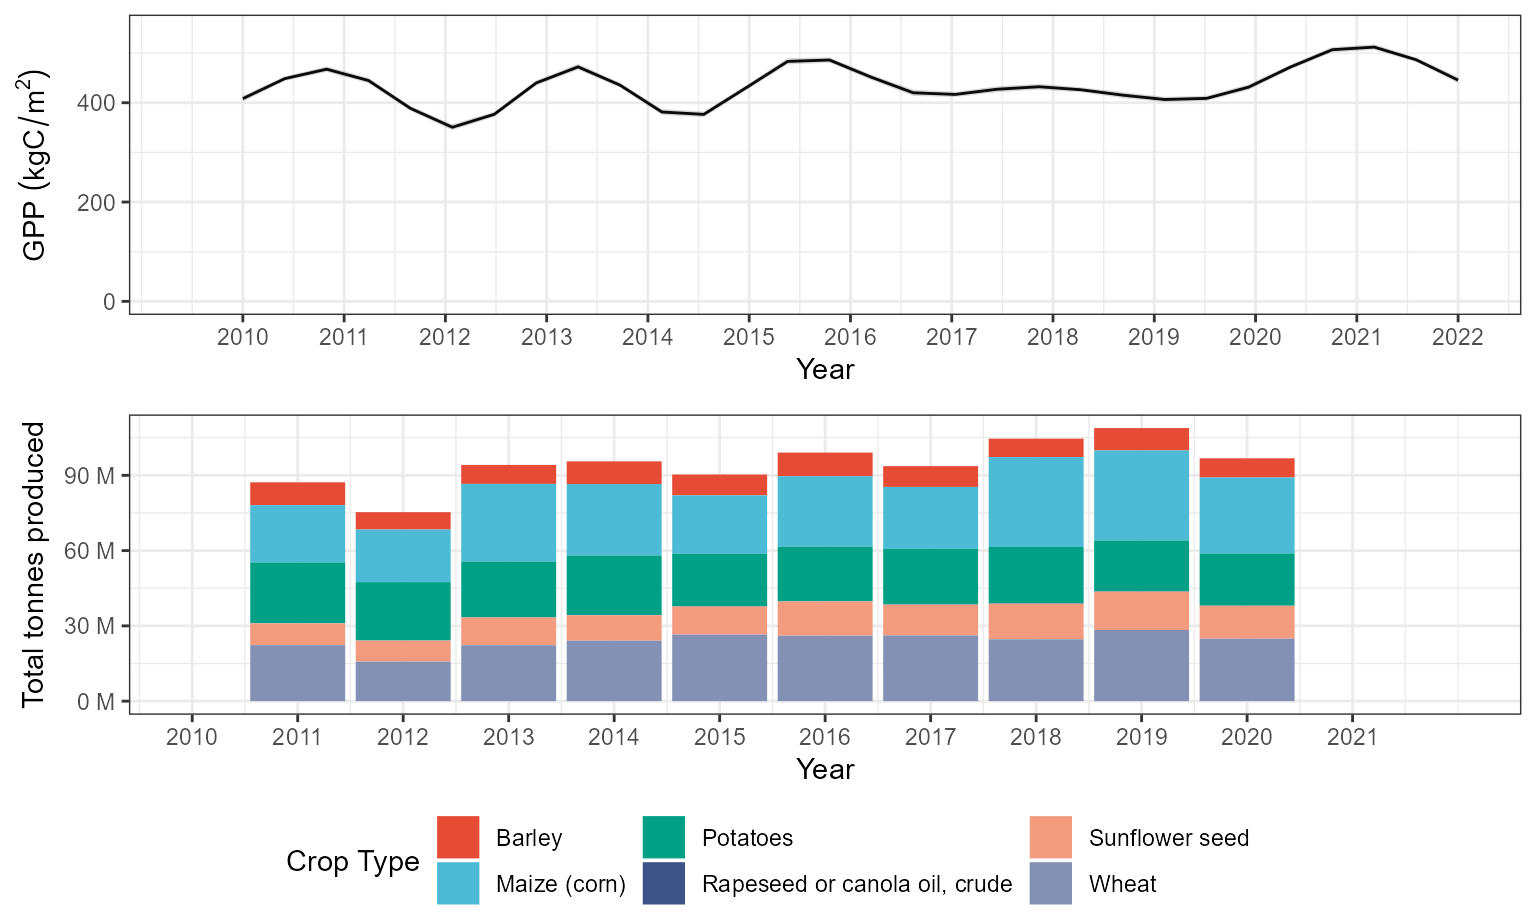
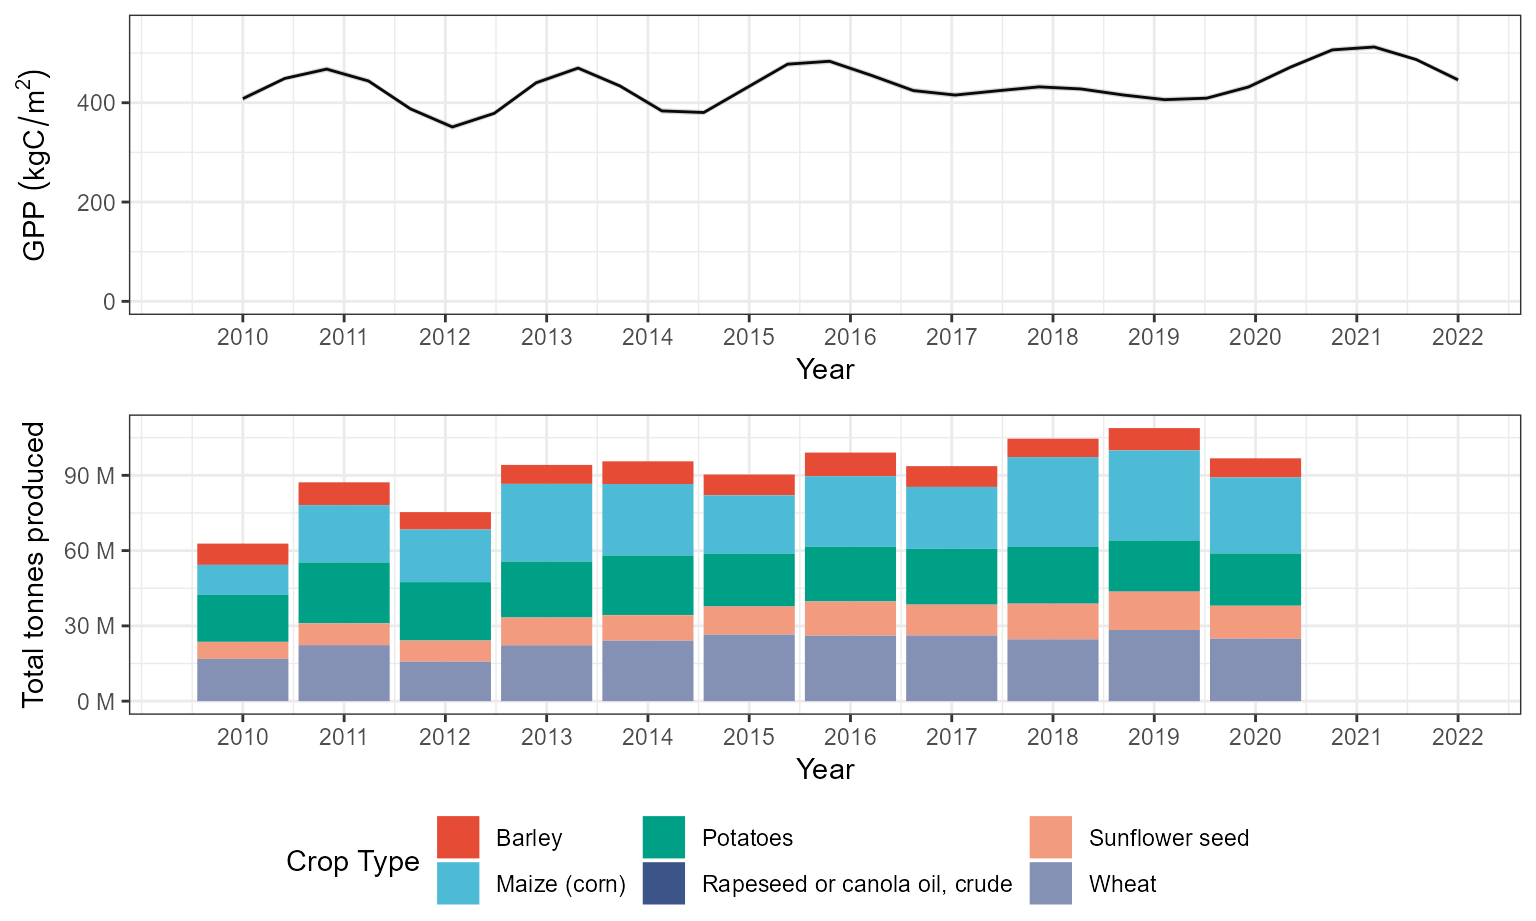
Jan 2023 updates

diff --git a/articles/Ukraine-GPP-analysis.html b/articles/Ukraine-GPP-analysis.html
@@ -66,7 +66,7 @@
                         <h4 data-toc-skip class="author">Michael
 Wellington, Roger Lawes and Petra Kuhnert</h4>
             
-            <h4 data-toc-skip class="date">4 August 2022</h4>
+            <h4 data-toc-skip class="date">25 January 2023</h4>
       
       
       <div class="d-none name"><code>Ukraine-GPP-analysis.Rmd</code></div>
@@ -79,8 +79,8 @@ Wellington, Roger Lawes and Petra Kuhnert</h4>
 </h3>
 <p>The following script accompanies the paper by Wellington et
 al. (2022) that explores crop production and grain exports in Ukraine.
-This first vignette focuses on trends in crop production using Net
-Primary Productivity (NPP).</p>
+This first vignette focuses on trends in crop production using Gross
+Primary Productivity (GPP).</p>
 </div>
 <div class="section level3">
 <h3 id="trend-analysis">Trend Analysis<a class="anchor" aria-label="anchor" href="#trend-analysis"></a>
@@ -89,7 +89,7 @@ Primary Productivity (NPP).</p>
 <div class="section level2">
 <h2 id="reading-in-relevant-datasets">Reading in relevant datasets<a class="anchor" aria-label="anchor" href="#reading-in-relevant-datasets"></a>
 </h2>
-<p>We load in NPP data clipped to Ukraine and load in the relevant shape
+<p>We load in GPP data clipped to Ukraine and load in the relevant shape
 file. These datasets are also available in the <code>/data</code> and
 <code>/inst/extdata</code> directories and can be read in using the
 <code>readRDS</code> and <code>st_read</code> commands respectively.</p>
@@ -119,7 +119,7 @@ of season within year, and space and time.</p>
 <span>  <span class="fu"><a href="https://rdrr.io/pkg/mgcv/man/te.html" class="external-link">ti</a></span><span class="op">(</span><span class="va">month</span>, <span class="va">year</span>, bs <span class="op">=</span> <span class="fu"><a href="https://rdrr.io/r/base/c.html" class="external-link">c</a></span><span class="op">(</span><span class="st">"cc"</span>, <span class="st">"cr"</span><span class="op">)</span>, k <span class="op">=</span> <span class="fu"><a href="https://rdrr.io/r/base/c.html" class="external-link">c</a></span><span class="op">(</span><span class="fl">12</span>,<span class="fl">12</span><span class="op">)</span><span class="op">)</span> <span class="op">+</span>  </span>
 <span>  <span class="co"># space x time</span></span>
 <span>  <span class="fu"><a href="https://rdrr.io/pkg/mgcv/man/te.html" class="external-link">ti</a></span><span class="op">(</span><span class="va">x</span>, <span class="va">y</span>, <span class="va">year</span>, d <span class="op">=</span> <span class="fu"><a href="https://rdrr.io/r/base/c.html" class="external-link">c</a></span><span class="op">(</span><span class="fl">2</span>, <span class="fl">1</span><span class="op">)</span>, bs <span class="op">=</span> <span class="fu"><a href="https://rdrr.io/r/base/c.html" class="external-link">c</a></span><span class="op">(</span><span class="st">"gp"</span>, <span class="st">"cr"</span><span class="op">)</span>, </span>
-<span>     k <span class="op">=</span> <span class="fu"><a href="https://rdrr.io/r/base/c.html" class="external-link">c</a></span><span class="op">(</span><span class="fl">50</span>,<span class="fl">12</span><span class="op">)</span>, m<span class="op">=</span><span class="fu"><a href="https://rdrr.io/r/base/list.html" class="external-link">list</a></span><span class="op">(</span><span class="fl">2</span>, <span class="cn">NA</span><span class="op">)</span><span class="op">)</span>  </span></code></pre></div>
+<span>     k <span class="op">=</span> <span class="fu"><a href="https://rdrr.io/r/base/c.html" class="external-link">c</a></span><span class="op">(</span><span class="fl">50</span>,<span class="fl">13</span><span class="op">)</span>, m<span class="op">=</span><span class="fu"><a href="https://rdrr.io/r/base/list.html" class="external-link">list</a></span><span class="op">(</span><span class="fl">2</span>, <span class="cn">NA</span><span class="op">)</span><span class="op">)</span>  </span></code></pre></div>
 <p>We then add in the factor <code>inv</code> which allows us to
 investigate a pre and post invasion effect.</p>
 <p>We also explore a GAM structure that fits a term reflecting the pre
@@ -160,24 +160,24 @@ effect direction and size.</p>
 <span><span class="co">## </span></span>
 <span><span class="co">## Parametric coefficients:</span></span>
 <span><span class="co">##                   Estimate Std. Error  t value Pr(&gt;|t|)    </span></span>
-<span><span class="co">## (Intercept)      191.09962    0.09495 2012.712   &lt;2e-16 ***</span></span>
-<span><span class="co">## warPost-invasion  -1.65267    6.43545   -0.257    0.797    </span></span>
+<span><span class="co">## (Intercept)      191.09964    0.09465 2018.918  &lt; 2e-16 ***</span></span>
+<span><span class="co">## warPost-invasion  -2.47161    0.41756   -5.919 3.24e-09 ***</span></span>
 <span><span class="co">## ---</span></span>
 <span><span class="co">## Signif. codes:  0 '***' 0.001 '**' 0.01 '*' 0.05 '.' 0.1 ' ' 1</span></span>
 <span><span class="co">## </span></span>
 <span><span class="co">## Approximate significance of smooth terms:</span></span>
 <span><span class="co">##                                    edf Ref.df         F p-value    </span></span>
-<span><span class="co">## s(month):warPre-invasion         9.998  10.00 386158.12  &lt;2e-16 ***</span></span>
-<span><span class="co">## s(month):warPost-invasion        8.992   9.00  29330.70  &lt;2e-16 ***</span></span>
-<span><span class="co">## s(x,y):warPre-invasion          48.528  48.92   3357.00  &lt;2e-16 ***</span></span>
-<span><span class="co">## s(x,y):warPost-invasion         44.154  45.40     16.74  &lt;2e-16 ***</span></span>
-<span><span class="co">## ti(month,x,y):warPre-invasion  490.490 519.83    627.08  &lt;2e-16 ***</span></span>
-<span><span class="co">## ti(month,x,y):warPost-invasion 340.912 388.60     89.06  &lt;2e-16 ***</span></span>
+<span><span class="co">## s(month):warPre-invasion         9.998  10.00 388543.14  &lt;2e-16 ***</span></span>
+<span><span class="co">## s(month):warPost-invasion        9.987  10.00  30197.84  &lt;2e-16 ***</span></span>
+<span><span class="co">## s(x,y):warPre-invasion          48.530  48.92   3377.65  &lt;2e-16 ***</span></span>
+<span><span class="co">## s(x,y):warPost-invasion         44.607  45.92     22.75  &lt;2e-16 ***</span></span>
+<span><span class="co">## ti(month,x,y):warPre-invasion  490.729 519.96    630.80  &lt;2e-16 ***</span></span>
+<span><span class="co">## ti(month,x,y):warPost-invasion 366.474 419.60     86.94  &lt;2e-16 ***</span></span>
 <span><span class="co">## ---</span></span>
 <span><span class="co">## Signif. codes:  0 '***' 0.001 '**' 0.01 '*' 0.05 '.' 0.1 ' ' 1</span></span>
 <span><span class="co">## </span></span>
-<span><span class="co">## R-sq.(adj) =  0.861   Deviance explained = 86.1%</span></span>
-<span><span class="co">## fREML = 6.5579e+06  Scale est. = 2493.2    n = 1283803</span></span></code></pre>
+<span><span class="co">## R-sq.(adj) =  0.862   Deviance explained = 86.2%</span></span>
+<span><span class="co">## fREML = 6.5967e+06  Scale est. = 2477.9    n = 1292171</span></span></code></pre>
 </div>
 <div class="section level2">
 <h2 id="model-checking">Model Checking<a class="anchor" aria-label="anchor" href="#model-checking"></a>
@@ -229,7 +229,7 @@ data were taken from the <a href="https://www.fao.org/faostat/en/" class="extern
 <span>                                     position<span class="op">=</span><span class="st">"stack"</span>, stat<span class="op">=</span><span class="st">"identity"</span><span class="op">)</span> <span class="op">+</span> <span class="fu"><a href="https://nanx.me/ggsci/reference/scale_npg.html" class="external-link">scale_fill_npg</a></span><span class="op">(</span><span class="op">)</span> <span class="op">+</span></span>
 <span>  <span class="fu"><a href="https://ggplot2.tidyverse.org/reference/ggtheme.html" class="external-link">theme_bw</a></span><span class="op">(</span><span class="op">)</span> <span class="op">+</span> <span class="fu"><a href="https://ggplot2.tidyverse.org/reference/labs.html" class="external-link">labs</a></span><span class="op">(</span>fill<span class="op">=</span><span class="st">'Crop Type'</span>, y<span class="op">=</span> <span class="st">'Total tonnes produced'</span><span class="op">)</span> <span class="op">+</span> </span>
 <span>  <span class="fu"><a href="https://ggplot2.tidyverse.org/reference/scale_continuous.html" class="external-link">scale_y_continuous</a></span><span class="op">(</span>labels <span class="op">=</span> <span class="fu"><a href="https://scales.r-lib.org/reference/unit_format.html" class="external-link">unit_format</a></span><span class="op">(</span>unit <span class="op">=</span> <span class="st">"M"</span>, scale <span class="op">=</span> <span class="fl">1e-6</span><span class="op">)</span><span class="op">)</span> <span class="op">+</span></span>
-<span>  <span class="fu"><a href="https://ggplot2.tidyverse.org/reference/scale_continuous.html" class="external-link">scale_x_continuous</a></span><span class="op">(</span>breaks<span class="op">=</span><span class="fu"><a href="https://rdrr.io/r/base/seq.html" class="external-link">seq</a></span><span class="op">(</span><span class="fl">2010</span>,<span class="fl">2021</span>, <span class="fl">1</span><span class="op">)</span>, limit<span class="op">=</span><span class="fu"><a href="https://rdrr.io/r/base/c.html" class="external-link">c</a></span><span class="op">(</span><span class="fl">2010</span>, <span class="fl">2022</span><span class="op">)</span><span class="op">)</span></span></code></pre></div>
+<span>  <span class="fu"><a href="https://ggplot2.tidyverse.org/reference/scale_continuous.html" class="external-link">scale_x_continuous</a></span><span class="op">(</span>breaks<span class="op">=</span><span class="fu"><a href="https://rdrr.io/r/base/seq.html" class="external-link">seq</a></span><span class="op">(</span><span class="fl">2010</span>,<span class="fl">2022</span>, <span class="fl">1</span><span class="op">)</span>, limit<span class="op">=</span><span class="fu"><a href="https://rdrr.io/r/base/c.html" class="external-link">c</a></span><span class="op">(</span><span class="fl">2009.5</span>, <span class="fl">2022</span><span class="op">)</span><span class="op">)</span></span></code></pre></div>
 <p>Before we format the final plot, we’ll perform a correlation test to
 check agreement between total crop production from FAOSTAT data and our
 NPP model. First of all, we extract the prediction terms for the year
@@ -238,13 +238,13 @@ effect from our GAM.</p>
 <code class="sourceCode R"><span><span class="va">Ukr_annual_preds_terms</span> <span class="op">&lt;-</span> <span class="fu"><a href="https://rdrr.io/r/stats/predict.html" class="external-link">predict</a></span><span class="op">(</span><span class="va">all_gam</span>, type<span class="op">=</span><span class="st">"iterms"</span>,  <span class="co">## Predict without new data</span></span>
 <span>                                 se.fit<span class="op">=</span><span class="cn">TRUE</span><span class="op">)</span> </span>
 <span><span class="fu"><a href="https://rdrr.io/r/utils/head.html" class="external-link">head</a></span><span class="op">(</span><span class="va">Ukr_annual_preds_terms</span><span class="op">$</span><span class="va">fit</span><span class="op">)</span></span></code></pre></div>
-<pre><code><span><span class="co">##     s(year)  s(month)     s(x,y) ti(month,year) ti(year,x,y)</span></span>
-<span><span class="co">## 1 -7.206782 -166.4977 -14.672125       16.72331   -27.269094</span></span>
-<span><span class="co">## 2 -7.206782 -166.4977 -13.961324       16.72331   -23.459930</span></span>
-<span><span class="co">## 3 -7.206782 -166.4977  -9.994319       16.72331    -6.882217</span></span>
-<span><span class="co">## 4 -7.206782 -166.4977 -10.362108       16.72331    -9.312854</span></span>
-<span><span class="co">## 5 -7.206782 -166.4977 -10.624894       16.72331   -11.004132</span></span>
-<span><span class="co">## 6 -7.206782 -166.4977 -14.556385       16.72331   -18.299855</span></span></code></pre>
+<pre><code><span><span class="co">##     s(year)  s(month)    s(x,y) ti(month,year) ti(year,x,y)</span></span>
+<span><span class="co">## 1 -7.233708 -166.1777 -14.68356       16.45004   -27.265129</span></span>
+<span><span class="co">## 2 -7.233708 -166.1777 -14.02574       16.45004   -23.444105</span></span>
+<span><span class="co">## 3 -7.233708 -166.1777 -10.00935       16.45004    -7.011057</span></span>
+<span><span class="co">## 4 -7.233708 -166.1777 -10.42145       16.45004    -9.392004</span></span>
+<span><span class="co">## 5 -7.233708 -166.1777 -10.69893       16.45004   -11.056382</span></span>
+<span><span class="co">## 6 -7.233708 -166.1777 -14.63295       16.45004   -18.297377</span></span></code></pre>
 <div class="sourceCode" id="cb14"><pre class="downlit sourceCode r">
 <code class="sourceCode R"><span><span class="va">Ukr_annual_preds_fit</span> <span class="op">&lt;-</span> <span class="fu"><a href="https://rdrr.io/r/base/as.data.frame.html" class="external-link">as.data.frame</a></span><span class="op">(</span><span class="va">Ukr_annual_preds_terms</span><span class="op">$</span><span class="va">fit</span><span class="op">)</span></span>
 <span><span class="va">Ukr_annual_preds_fit</span><span class="op">$</span><span class="va">year</span> <span class="op">&lt;-</span> <span class="va">GPP_mod_df</span><span class="op">$</span><span class="va">year</span></span>
@@ -287,20 +287,20 @@ conducting the test.</p>
 <span><span class="co">##  Shapiro-Wilk normality test</span></span>
 <span><span class="co">## </span></span>
 <span><span class="co">## data:  Ukr_annual_terms$year_term</span></span>
-<span><span class="co">## W = 0.93546, p-value = 0.4687</span></span></code></pre>
+<span><span class="co">## W = 0.93534, p-value = 0.4674</span></span></code></pre>
 <div class="sourceCode" id="cb24"><pre class="downlit sourceCode r">
 <code class="sourceCode R"><span><span class="fu"><a href="https://rdrr.io/r/stats/cor.test.html" class="external-link">cor.test</a></span><span class="op">(</span><span class="va">Ukr_grainprod_annual</span><span class="op">$</span><span class="va">tonnes</span>, <span class="va">Ukr_annual_terms</span><span class="op">$</span><span class="va">year_term</span>, method<span class="op">=</span><span class="st">"pearson"</span>, alternative<span class="op">=</span><span class="st">"greater"</span><span class="op">)</span></span></code></pre></div>
 <pre><code><span><span class="co">## </span></span>
 <span><span class="co">##  Pearson's product-moment correlation</span></span>
 <span><span class="co">## </span></span>
 <span><span class="co">## data:  Ukr_grainprod_annual$tonnes and Ukr_annual_terms$year_term</span></span>
-<span><span class="co">## t = 2.7268, df = 9, p-value = 0.01167</span></span>
+<span><span class="co">## t = 2.7352, df = 9, p-value = 0.01151</span></span>
 <span><span class="co">## alternative hypothesis: true correlation is greater than 0</span></span>
 <span><span class="co">## 95 percent confidence interval:</span></span>
-<span><span class="co">##  0.2297834 1.0000000</span></span>
+<span><span class="co">##  0.2317292 1.0000000</span></span>
 <span><span class="co">## sample estimates:</span></span>
 <span><span class="co">##       cor </span></span>
-<span><span class="co">## 0.6726155</span></span></code></pre>
+<span><span class="co">## 0.6737394</span></span></code></pre>
 <p>Finally, we can plot the summed effect of year alongside the real
 production data.</p>
 <div class="sourceCode" id="cb26"><pre class="downlit sourceCode r">
@@ -417,29 +417,29 @@ estimate (Lucchesi, 2021). First, we extract data from the GAMs.</p>
 <p>Next, we use Vizumap functions to build a palette and colour key.</p>
 <div class="sourceCode" id="cb36"><pre class="downlit sourceCode r">
 <code class="sourceCode R"><span><span class="co"># Create palette</span></span>
-<span><span class="va">npp_pal</span> <span class="op">&lt;-</span> <span class="fu">build_palette</span><span class="op">(</span>name <span class="op">=</span> <span class="st">"usr"</span>, </span>
+<span><span class="va">gpp_pal</span> <span class="op">&lt;-</span> <span class="fu">build_palette</span><span class="op">(</span>name <span class="op">=</span> <span class="st">"usr"</span>, </span>
 <span>                          colrange <span class="op">=</span> <span class="fu"><a href="https://rdrr.io/r/base/list.html" class="external-link">list</a></span><span class="op">(</span>colour <span class="op">=</span> <span class="fu"><a href="https://rdrr.io/r/base/c.html" class="external-link">c</a></span><span class="op">(</span><span class="st">"chartreuse4"</span>, <span class="st">"darkblue"</span><span class="op">)</span>, </span>
 <span>                                          difC <span class="op">=</span> <span class="fu"><a href="https://rdrr.io/r/base/c.html" class="external-link">c</a></span><span class="op">(</span><span class="fl">3</span>, <span class="fl">4</span><span class="op">)</span><span class="op">)</span><span class="op">)</span></span>
-<span><span class="fu">view</span><span class="op">(</span><span class="va">npp_pal</span><span class="op">)</span></span></code></pre></div>
+<span><span class="fu">view</span><span class="op">(</span><span class="va">gpp_pal</span><span class="op">)</span></span></code></pre></div>
 <p><img src="Ukraine-GPP-analysis_files/figure-html/unnamed-chunk-16-1.png" width="768" style="display: block; margin: auto;"></p>
 <div class="sourceCode" id="cb37"><pre class="downlit sourceCode r">
 <code class="sourceCode R"><span><span class="co"># creating df for Vizumap plotting</span></span>
-<span><span class="va">space_npp_dat</span> <span class="op">&lt;-</span> <span class="fu">bind_rows</span><span class="op">(</span><span class="va">space_nowar_dat</span>, <span class="va">space_war_dat</span><span class="op">)</span></span>
-<span><span class="va">npp_war_df</span> <span class="op">&lt;-</span> <span class="fu">read.uv</span><span class="op">(</span>data <span class="op">=</span> <span class="va">space_npp_dat</span>, estimate <span class="op">=</span> <span class="st">"fit"</span>, </span>
+<span><span class="va">space_gpp_dat</span> <span class="op">&lt;-</span> <span class="fu">bind_rows</span><span class="op">(</span><span class="va">space_nowar_dat</span>, <span class="va">space_war_dat</span><span class="op">)</span></span>
+<span><span class="va">gpp_war_df</span> <span class="op">&lt;-</span> <span class="fu">read.uv</span><span class="op">(</span>data <span class="op">=</span> <span class="va">space_gpp_dat</span>, estimate <span class="op">=</span> <span class="st">"fit"</span>, </span>
 <span>                       error <span class="op">=</span> <span class="st">"SE"</span><span class="op">)</span></span>
-<span><span class="fu"><a href="https://rdrr.io/r/base/names.html" class="external-link">names</a></span><span class="op">(</span><span class="va">npp_war_df</span><span class="op">)</span><span class="op">[</span><span class="fu"><a href="https://rdrr.io/r/base/c.html" class="external-link">c</a></span><span class="op">(</span><span class="fl">1</span>, <span class="fl">5</span>,<span class="fl">6</span><span class="op">)</span><span class="op">]</span> <span class="op">&lt;-</span> <span class="fu"><a href="https://rdrr.io/r/base/c.html" class="external-link">c</a></span><span class="op">(</span><span class="st">"Estimate"</span>, <span class="st">"long"</span>, <span class="st">"lat"</span><span class="op">)</span></span>
+<span><span class="fu"><a href="https://rdrr.io/r/base/names.html" class="external-link">names</a></span><span class="op">(</span><span class="va">gpp_war_df</span><span class="op">)</span><span class="op">[</span><span class="fu"><a href="https://rdrr.io/r/base/c.html" class="external-link">c</a></span><span class="op">(</span><span class="fl">1</span>, <span class="fl">5</span>,<span class="fl">6</span><span class="op">)</span><span class="op">]</span> <span class="op">&lt;-</span> <span class="fu"><a href="https://rdrr.io/r/base/c.html" class="external-link">c</a></span><span class="op">(</span><span class="st">"Estimate"</span>, <span class="st">"long"</span>, <span class="st">"lat"</span><span class="op">)</span></span>
 <span></span>
 <span><span class="co"># build key</span></span>
-<span><span class="va">UKey</span> <span class="op">&lt;-</span> <span class="fu">build_bkey</span><span class="op">(</span>data <span class="op">=</span> <span class="va">npp_war_df</span>, terciles <span class="op">=</span> <span class="cn">T</span>, palette <span class="op">=</span> <span class="va">npp_pal</span><span class="op">)</span></span>
+<span><span class="va">UKey</span> <span class="op">&lt;-</span> <span class="fu">build_bkey</span><span class="op">(</span>data <span class="op">=</span> <span class="va">gpp_war_df</span>, terciles <span class="op">=</span> <span class="cn">T</span>, palette <span class="op">=</span> <span class="va">gpp_pal</span><span class="op">)</span></span>
 <span><span class="va">k</span> <span class="op">&lt;-</span> <span class="fu">view</span><span class="op">(</span><span class="va">UKey</span><span class="op">)</span></span>
 <span>  </span>
-<span><span class="va">nppBivMap</span> <span class="op">&lt;-</span> <span class="fu">build_bmap</span><span class="op">(</span>data <span class="op">=</span> <span class="va">npp_war_df</span>, terciles <span class="op">=</span> <span class="cn">T</span>, </span>
-<span>                           palette <span class="op">=</span> <span class="va">npp_pal</span><span class="op">)</span></span></code></pre></div>
+<span><span class="va">nppBivMap</span> <span class="op">&lt;-</span> <span class="fu">build_bmap</span><span class="op">(</span>data <span class="op">=</span> <span class="va">gpp_war_df</span>, terciles <span class="op">=</span> <span class="cn">T</span>, </span>
+<span>                           palette <span class="op">=</span> <span class="va">gpp_pal</span><span class="op">)</span></span></code></pre></div>
 <p>Finally, we can build the Vizumap plot.</p>
 <div class="sourceCode" id="cb38"><pre class="downlit sourceCode r">
 <code class="sourceCode R"><span><span class="va">obj</span> <span class="op">&lt;-</span> <span class="va">nppBivMap</span></span>
 <span><span class="va">obj_cropped</span> <span class="op">&lt;-</span> <span class="fu"><a href="https://rdrr.io/pkg/mgcv/man/exclude.too.far.html" class="external-link">exclude.too.far</a></span><span class="op">(</span><span class="va">obj</span><span class="op">$</span><span class="va">output_data</span><span class="op">$</span><span class="va">long</span>, <span class="va">obj</span><span class="op">$</span><span class="va">output_data</span><span class="op">$</span><span class="va">lat</span>, </span>
-<span>                               <span class="va">npp_mod_df</span><span class="op">$</span><span class="va">x</span>, <span class="va">npp_mod_df</span><span class="op">$</span><span class="va">y</span>, dist<span class="op">=</span><span class="fl">0.015</span><span class="op">)</span></span>
+<span>                               <span class="va">GPP_mod_df</span><span class="op">$</span><span class="va">x</span>, <span class="va">GPP_mod_df</span><span class="op">$</span><span class="va">y</span>, dist<span class="op">=</span><span class="fl">0.015</span><span class="op">)</span></span>
 <span></span>
 <span><span class="va">m</span> <span class="op">&lt;-</span> <span class="fu"><a href="https://ggplot2.tidyverse.org/reference/ggplot.html" class="external-link">ggplot</a></span><span class="op">(</span><span class="op">)</span> <span class="op">+</span> </span>
 <span>    <span class="fu"><a href="https://ggplot2.tidyverse.org/reference/geom_tile.html" class="external-link">geom_raster</a></span><span class="op">(</span>data <span class="op">=</span> <span class="va">obj</span><span class="op">$</span><span class="va">output_data</span><span class="op">[</span><span class="op">!</span><span class="va">obj_cropped</span>,<span class="op">]</span>, </span>

diff --git a/authors.html b/authors.html
@@ -62,14 +62,14 @@
       <h2 id="citation">Citation</h2>
       <p></p>
 
-      <p>Wellington M (2022).
+      <p>Wellington M (2023).
 <em>UkraineCrops: Ukraine-crop Analysis</em>.
 R package version 0.9.0, <a href="https://mickwelli.github.io/Ukraine-crops/" class="external-link">https://mickwelli.github.io/Ukraine-crops/</a>. 
 </p>
       <pre>@Manual{,
   title = {UkraineCrops: Ukraine-crop Analysis},
   author = {Michael Wellington},
-  year = {2022},
+  year = {2023},
   note = {R package version 0.9.0},
   url = {https://mickwelli.github.io/Ukraine-crops/},
 }</pre>

diff --git a/articles/Ukraine_ship_analysis.html b/articles/Ukraine_ship_analysis.html
@@ -66,7 +66,7 @@
                         <h4 data-toc-skip class="author">Michael
 Wellington, Roger Lawes and Petra Kuhnert</h4>
             
-            <h4 data-toc-skip class="date">4 August 2022</h4>
+            <h4 data-toc-skip class="date">25 January 2023</h4>
       
       
       <div class="d-none name"><code>Ukraine_ship_analysis.Rmd</code></div>
